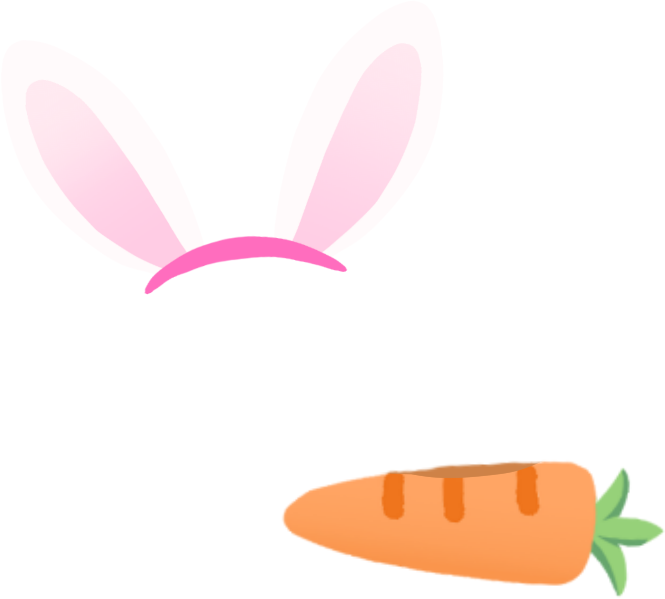
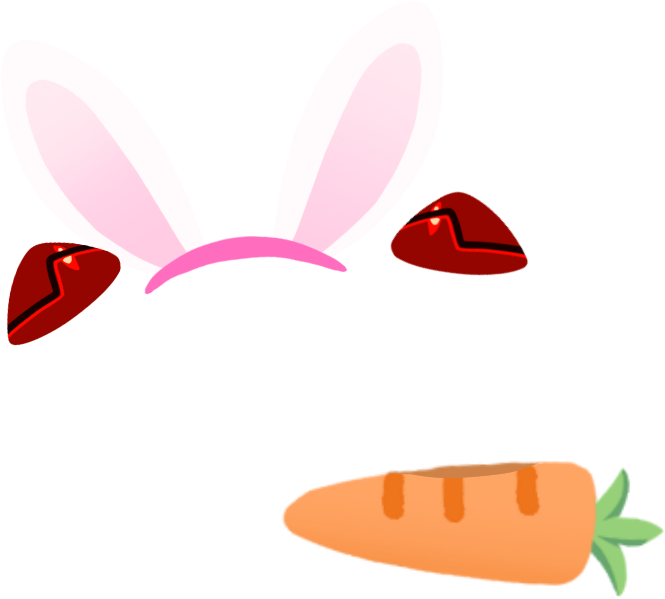
update v1787691770

Changed region(s): [[0.5714, 0.3005, 0.812, 0.4808], [0.0, 0.3907, 0.1805, 0.571]]

diff --git a/mascot.py b/mascot.py
@@ -5534,6 +5534,10 @@ class Mascot:
         self._prop_back_cfg = {}     # 뽑힌 소품의 뒤쪽 조각 움직임 설정
         self._prop_bits = []         # 여러 조각짜리 소품의 곁조각 자리 이름
         self._prop_bit_cfg = {}      # 그 조각마다의 움직임 (지뢰 13)
+        self._prop_gname = ""        # 지금 소품의 이름 (고양이·만두…)
+        self._cat_open_until = 0.0   # 고양이가 눈을 뜨고 있는 시한
+        self._cat_open_next = 0.0    # 다음에 눈을 뜰 시각
+        self._cat_heart_next = 0.0   # 다음 하트가 나올 시각
         # ── 매끈한 캐릭터 (몸만 레이어 창으로) ───────────────────────────
         # **_load_parts 보다 먼저 정해야 한다.** 파츠를 읽으면서 몸 뒤
         # 파츠의 움직임 프레임을 미리 굽는데, 그 캐시에 PIL 을 담을지
@@ -6374,6 +6378,26 @@ class Mascot:
 
     PROP_BIT_MAX = 6         # 한 소품에 붙일 수 있는 곁조각 수
 
+    # 이름(gname)으로 주는 기본 움직임 — 열여덟 캐릭터의 config 를 일일이
+    # 고치지 않아도 새 소품이 살아 움직인다. config 의 prop_motion 이 있으면
+    # 그쪽이 이긴다 (캐릭터별 손맛).
+    #   고양이: prop=꼬리(살랑) · bit2=몸 · bit3=눈감은 얼굴(리듬 까닥) ·
+    #           bit4=눈뜬 얼굴(가만히 빤히 — 움직임 없음)
+    #   만두:   bit2=김(폴폴 오르며 옅어짐)
+    PROP_MOTION_DEF = {
+        "고양이": {
+            "prop": {"motion": "sway", "amp": 8.0, "period": 2.6,
+                     "jitter": 0.18, "pivot": [0.5, 0.9], "steps": 24},
+            "prop_bit3": {"motion": "sway", "amp": 3.6, "period": 1.35,
+                          "jitter": 0.08, "pivot": [0.5, 0.86],
+                          "steps": 20},
+        },
+        "만두": {
+            "prop_bit2": {"motion": "steam", "amp": 1.0, "period": 3.4,
+                          "jitter": 0.12, "rise": 1.1, "steps": 22},
+        },
+    }
+
     def _load_prop_bits(self, pick, s, pil_cache):
         """여러 조각으로 된 특별 소품 (사가 신하나의 미쿠).
 
@@ -6405,7 +6429,10 @@ class Mascot:
         # 다시 매기면 밀린다 (미쿠가 prop16 → prop17 이 됐다). 번호로도
         # 찾아 주므로 옛 config 도 그대로 돈다.
         tab9 = self.cfg.get("prop_motion") or {}
-        mo_all = tab9.get(ent.get("gname") or "") or tab9.get(pick) or {}
+        gname9 = str(ent.get("gname") or "")
+        self._prop_gname = gname9        # 그리는 쪽(고양이 눈)이 본다
+        mo_all = (tab9.get(gname9) or tab9.get(pick)
+                  or self.PROP_MOTION_DEF.get(gname9) or {})
         self._prop_bit_cfg["prop"] = mo_all.get("prop") or {}
         for j9, key9 in enumerate(keys):
             nm9 = "prop_bit%d" % (j9 + 2)
@@ -7478,6 +7505,34 @@ class Mascot:
             im = Image.new("RGBA", pil.size, (0, 0, 0, 0))
             im.alpha_composite(pil.resize((w, pil.height), Image.LANCZOS),
                                ((pil.width - w) // 2, 0))
+        elif mode == "steam":
+            # 김 — **제자리에서 위로 폴폴** 오르며 옅어졌다 다시 차오른다.
+            # 한 주기: 아래(진하게) → 위로 오르며 옅어짐 → 사라지고 다시.
+            # sin 이 아니라 톱니(주기 진행률)를 쓴다 — 김은 왕복하지 않는다.
+            t2 = (k / float(steps)) % 1.0
+            rise = pil.height * float(mo.get("rise", 0.9))
+            pad = int(math.ceil(rise)) + 2
+            # 처음엔 스르륵 나타나고(0→0.15) 끝에서 길게 사라진다
+            if t2 < 0.15:
+                a2 = t2 / 0.15
+            else:
+                a2 = max(0.0, 1.0 - (t2 - 0.15) / 0.85)
+            # 반투명 흰 김 (요청). 매끈 레이어에서는 알파 그대로 나오고,
+            # 색상키 경로에서는 키 색과 섞여 옅은 회색 김이 된다 — 김은
+            # 원래 회끄무레해 그 모습도 자연스럽다 (지뢰 65 의 얼룩과
+            # 달리 면적이 작고 늘 움직여 테로 보이지 않는다).
+            a2 *= 0.42 + 0.30 * (1.0 - t2)
+            fade = pil.copy()
+            fade.putalpha(fade.getchannel("A").point(
+                lambda v, m9=a2: int(v * m9)))
+            wob = math.sin(t2 * 2 * math.pi) * pil.width * 0.06
+            base = Image.new("RGBA",
+                             (pil.width + 2 * pad, pil.height + 2 * pad),
+                             (0, 0, 0, 0))
+            base.alpha_composite(fade,
+                                 (pad + int(round(wob)),
+                                  pad - int(round(rise * t2))))
+            im = base
         else:
             return None
         # 움직이는 조각이 넷이 되면서 12장 × 4 = 48장이라 상한 40 을 계속
@@ -12725,7 +12780,21 @@ class Mascot:
             hy = wy = round(h * 1.5)
             cloud = self._fx_cloud(hy)
 
+            # ③-2 작은 하트 — 고양이 소품 곁에 뿅뿅 (요청). 반 크기라
+            # 캐릭터 하트와 확실히 구분된다.
+            hs = round(h * 0.52)
+            whs = max(6, round(hs * 0.92))
+
+            def drawhs(d, c="#ff9fbc"):
+                r = whs * 0.26
+                d.ellipse([0, hs * 0.14, 2 * r, hs * 0.14 + 2 * r], fill=c)
+                d.ellipse([whs - 2 * r, hs * 0.14, whs, hs * 0.14 + 2 * r],
+                          fill=c)
+                d.polygon([(1, hs * 0.34), (whs - 1, hs * 0.34),
+                           (whs / 2, hs * 0.97)], fill=c)
+
             groups = {"note": notes, "heart": [(wh, drawh)],
+                      "heart_s": [(whs, drawhs, hs)],
                       "yawn": [(wy, cloud, hy)],
                       "sweat": [(ws, draws)], "question": [(wq, drawq)],
                       "spark": [(wk, drawk)], "bang": [(wb, drawb)]}
@@ -18116,8 +18185,27 @@ class Mascot:
         차례와 움직임은 얼굴 차례에서 하던 것과 똑같이 한다.
         """
         now9 = time.time()
+        # 고양이 소품 — 눈감은 얼굴(bit3)이 기본, 가끔 눈을 뜨고(bit4)
+        # 빤히 바라본다 (요청). 두 얼굴은 같은 자리라 하나만 그린다.
+        skip9 = None
+        if self._prop_gname == "고양이" and self.has.get("prop_bit4"):
+            if now9 < self._cat_open_until:
+                skip9 = "prop_bit3"          # 눈 뜸 — 가만히 응시
+            else:
+                skip9 = "prop_bit4"
+                if not self._cat_open_next:      # 켠 직후 — 예약만
+                    self._cat_open_next = now9 + random.uniform(8.0, 18.0)
+                elif now9 >= self._cat_open_next:
+                    self._cat_open_until = now9 + random.uniform(3.0, 5.5)
+                    self._cat_open_next = (self._cat_open_until
+                                           + random.uniform(14.0, 30.0))
+                # 눈을 감고 있는 동안 반투명 작은 하트가 뿅뿅 (요청)
+                if now9 >= self._cat_heart_next:
+                    self._cat_heart_next = now9 + random.uniform(1.4, 2.4)
+                    self._safe("cat_heart", self._cat_heart, now9, yo)
         for name in (self.layout.get("overlays") or []):
-            if not name.startswith("prop") or not self.has.get(name):
+            if (not name.startswith("prop") or not self.has.get(name)
+                    or name == skip9):
                 continue
             mo9 = (getattr(self, "_prop_bit_cfg", None) or {}).get(name)
             if mo9 and mo9.get("motion"):
@@ -18125,6 +18213,47 @@ class Mascot:
                 continue
             ox, oy_ = self._pos(name)
             self._put(name, ox, oy_ + yo)
+
+    def _cat_heart(self, now, yo):
+        """고양이 소품 곁에서 뿅 하고 오르는 작은 하트.
+
+        기존 하트 파티클(_spawn_note 의 heart)을 그대로 쓰되, 자리만
+        고양이(몸 조각) 위로 잡는다 — FxLayer 가 있으면 부드럽게 옅어지고
+        (반투명, 요청) 없으면 픽셀 솎기로 물러난다 (기존과 같은 길).
+        """
+        lvs = (self.fx_imgs.get("heart_s") or self.fx_imgs.get("heart")
+               or self.fx_imgs.get("note"))
+        if not lvs:
+            return
+        body9 = ("prop_bit2" if self.has.get("prop_bit2") else "prop")
+        try:
+            bx9, by9 = self._pos(body9)
+            ent9 = self.layout.get(body9) or {}
+            sz9 = ent9.get("size") or [40, 40]
+            w9 = float(sz9[0]) * self.s
+            h9 = float(sz9[1]) * self.s
+        except Exception:
+            return
+        # **주변을 번갈아** — 왼쪽·오른쪽·위를 돌아가며, 한 번에 두세 개를
+        # 박자를 어긋내 뿅뿅 (요청: 작게 여러 개).
+        side9 = getattr(self, "_cat_heart_side", 0)
+        self._cat_heart_side = (side9 + 1) % 3
+        for j9 in range(random.randint(2, 3)):
+            if side9 == 0:              # 왼쪽 곁
+                x = bx9 - w9 * random.uniform(0.05, 0.28)
+                y = by9 + yo + h9 * random.uniform(0.1, 0.7)
+            elif side9 == 1:            # 오른쪽 곁
+                x = bx9 + w9 * (1.0 + random.uniform(0.05, 0.28))
+                y = by9 + yo + h9 * random.uniform(0.1, 0.7)
+            else:                       # 머리 위
+                x = bx9 + w9 * random.uniform(0.2, 0.8)
+                y = by9 + yo - h9 * random.uniform(0.0, 0.25)
+            # 자리·속도·수명을 제각각 주면 같은 박자에 태어나도 흩어져
+            # '번갈아 뿅뿅'으로 보인다.
+            life = random.randint(24, 38)
+            self.notes.append([x, y, random.uniform(-0.35, 0.35),
+                               random.uniform(0.7, 1.15),
+                               random.choice(lvs), life, life])
 
     def _draw_pen_hand(self):
         """펜 쥔 손. 퀸시처럼 펜이 맨 위 레이어인 캐릭터는 머리를 그린 뒤 호출.
